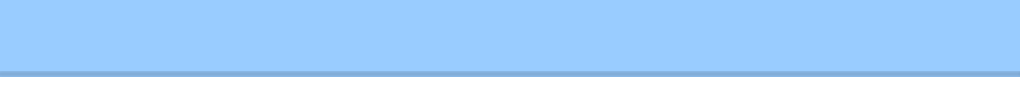
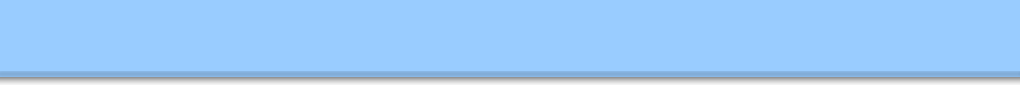
Saving tweaks

Changed region(s): [[0.0, 0.8941, 1.0, 0.9882]]

diff --git a/public/stylesheets/application.css b/public/stylesheets/application.css
@@ -70,6 +70,10 @@ li a:visited {
 
 /* Sign-in Form Styling */
 
+div.logo img {
+	margin-right: 500px;
+}
+
 div.signin {
 	margin-top: 20px;
 	padding: 1em;
@@ -84,17 +88,17 @@ div.signin {
 
 div.header {
 	margin-top: 0;
-	height: 77px;
+	height: 83px;
 	background-image: url('header_background.png');
 }
 
 div.header img {
 	float: left;
-	margin-top: 10px;
+	margin-top: 5px;
 }
 
 div.links {
-	padding-top: 5px;
+	padding-top: 10px;
 	padding-left: 10px;
 }
 
@@ -130,7 +134,7 @@ table.folders img {
 table.folders tr td {
 	padding-top: .5em;
 	padding-left: 2em;
-	border-bottom: solid gray;
+	border-bottom: 1px solid #99CCFF;
 }
 
 table.folders tr ul li {

diff --git a/app/helpers/application_helper.rb b/app/helpers/application_helper.rb
@@ -1,7 +1,7 @@
 module ApplicationHelper
   # Sets base title
   def title
-    base_title = "The Web Collector"
+    base_title = "Web Collector"
     if @title.nil?
       base_title
     else
